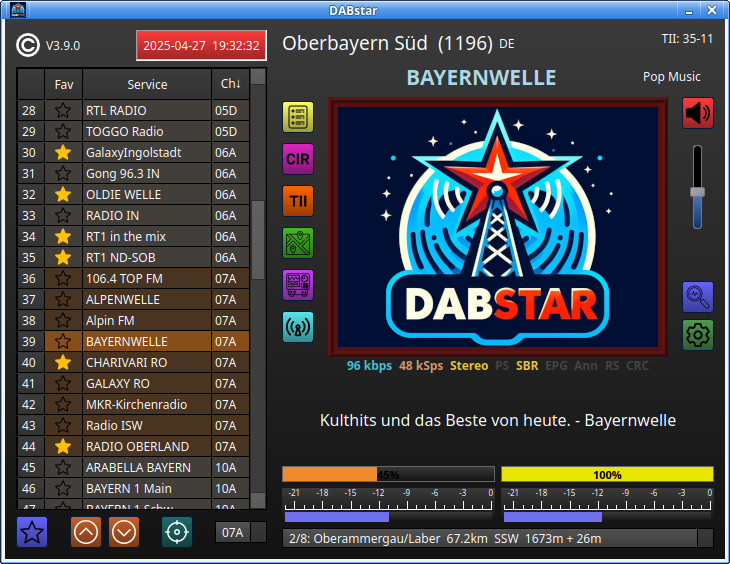
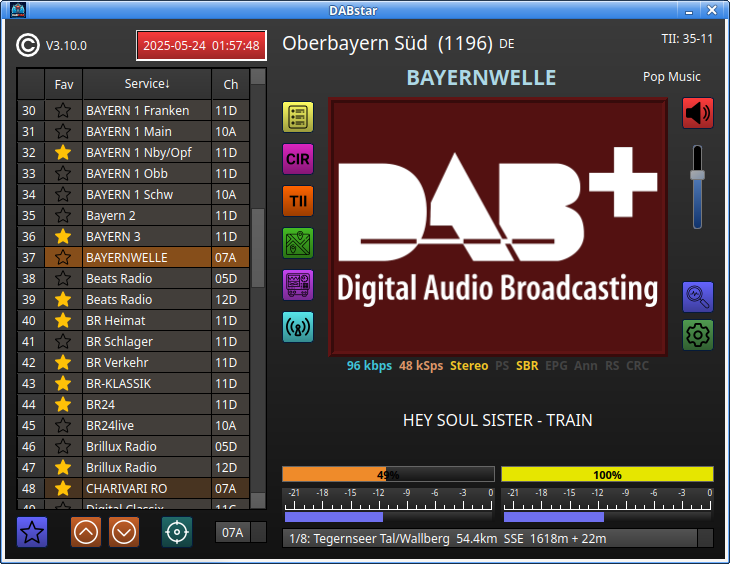
Update version to 3.10.0
- Updated version number in project files and documentation.
- Reflected version change in README references and headings.
- Replaced images in the `res/for_readme` folder with updated versions.

diff --git a/README.md b/README.md
@@ -4,7 +4,7 @@
 <!-- TOC -->
 * [DABstar](#dabstar)
   * [Table of Content](#table-of-content)
-  * [Pictures from version V3.9.0](#pictures-from-version-v390)
+  * [Pictures from version V3.10.0](#pictures-from-version-v3100)
     * [Main window](#main-window-)
     * [Scope Spectrum Correlation Statistic window](#scope-spectrum-correlation-statistic-window)
     * [TII-list window which shows received transmitter details](#tii-list-window-which-shows-received-transmitter-details)
@@ -39,7 +39,7 @@
 <!-- TOC -->
 
 ---
-## Pictures from version V3.9.0
+## Pictures from version V3.10.0
 
 ### Main window                                 
 
